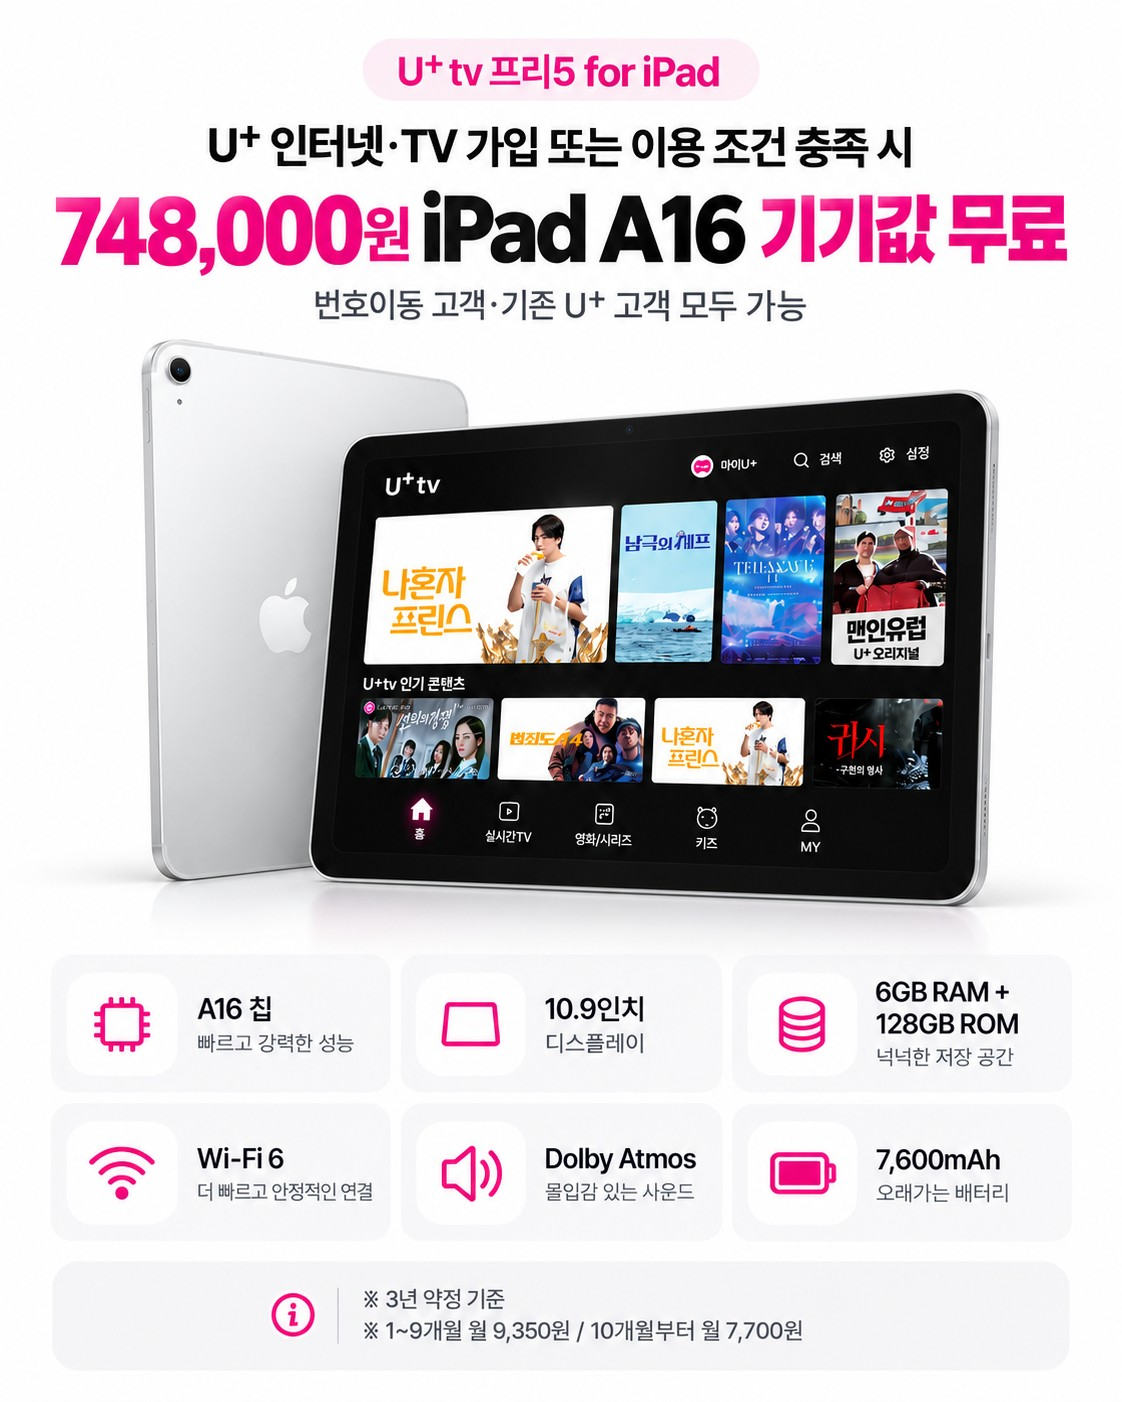
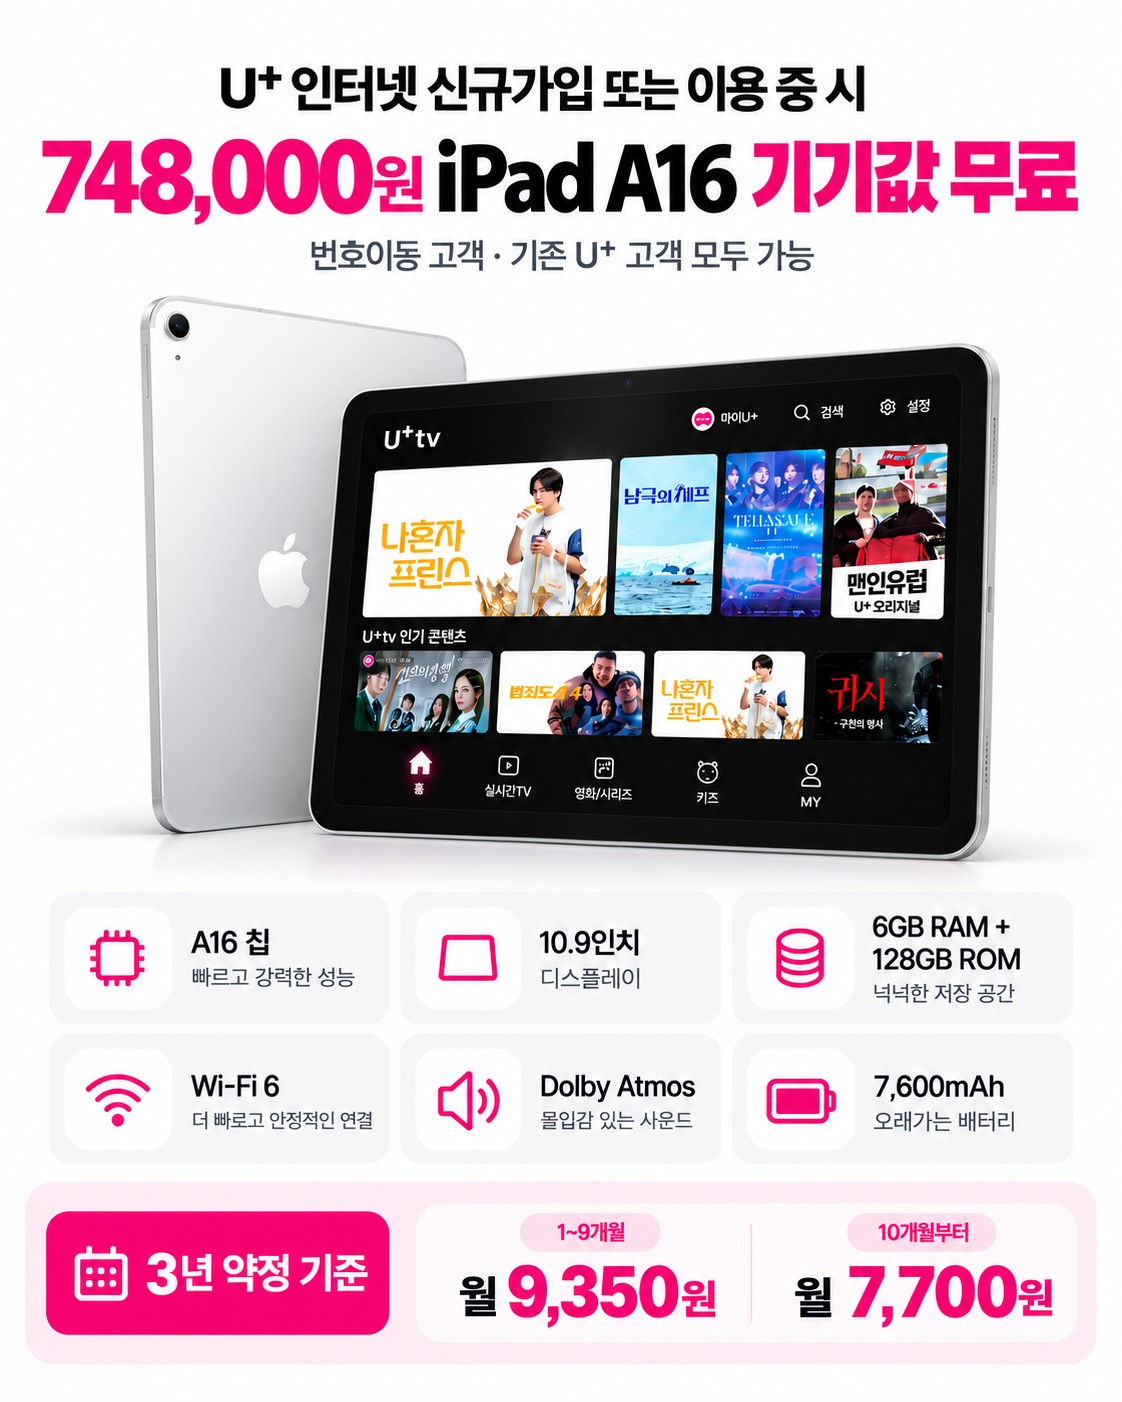
iphone18: 아이패드 혜택 카드 이미지 교체 (하단 3년약정/월 요금 안내 바 디자인 개선 버전)

diff --git a/iphone18.html b/iphone18.html
@@ -926,7 +926,7 @@ var PAGE_CHANNEL = PAGE_UTM_SOURCE ? (CHANNEL_MAP[PAGE_UTM_SOURCE] || PAGE_UTM_S
           <div class="b-card"><img src="https://raw.githubusercontent.com/sihwan5183-del/udak/main/assets/iphone18/benefit_intro.jpg" alt="아이폰 18 사전예약 고객님 한정 요금제별 혜택 대기중" loading="lazy"></div>
           <div class="b-card"><img src="https://raw.githubusercontent.com/sihwan5183-del/udak/main/assets/iphone18/benefit_watch.jpg" alt="애플워치 SE3 40mm 44mm 기기값 무료 제공 - 아이폰18 사전예약 혜택 애플워치" loading="lazy"></div>
           <div class="b-card"><img src="https://raw.githubusercontent.com/sihwan5183-del/udak/main/assets/iphone18/benefit_airpods.jpg" alt="에어팟 특별 혜택 - 에어팟4 에어팟프로3 에어팟맥스2 아이폰18 사전예약 혜택" loading="lazy"></div>
-          <div class="b-card"><img src="https://raw.githubusercontent.com/sihwan5183-del/udak/main/assets/iphone18/benefit_ipad.jpg" alt="U+ tv 프리5 for iPad A16 기기값 무료 - 아이폰18 사전예약 혜택 아이패드" loading="lazy"></div>
+          <div class="b-card"><img src="https://raw.githubusercontent.com/sihwan5183-del/udak/main/assets/iphone18/benefit_ipad.jpg" alt="U+ 인터넷 신규가입 이용 시 iPad A16 기기값 무료 - 아이폰18 사전예약 혜택 아이패드" loading="lazy"></div>
         </div>
       </div>
 
